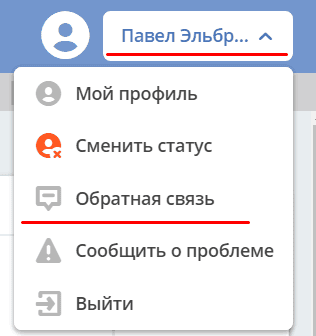
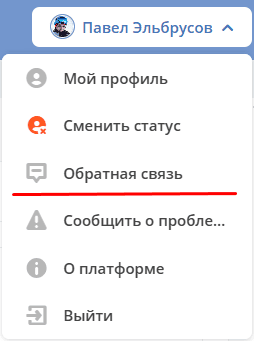
ECOSCOM-5409, ECOSENT-3487, ECOSUI-3678
https://jira.citeck.ru/browse/ECOSCOM-5409 About window
https://jira.citeck.ru/browse/ECOSENT-3487 Automatical system updatase
https://jira.citeck.ru/browse/ECOSUI-3678 Number component. Default formatter

diff --git a/docs/introduction/homepage.rst b/docs/introduction/homepage.rst
@@ -87,6 +87,7 @@
     * **Сменить статус** - меняет статус пользователя на «Отсутствую»;
     * **Обратная связь** – открывает форму для отправки отзыва по работе системы;
     * **Сообщить о проблеме** – открывает форму для отправки письма, в котором необходимо указать о найденной в системе проблеме;
+    * **О платформе** - информация о версии системы;
     * **Выйти** – выход из системы.
 
 Главное меню

diff --git a/docs/settings_kb/interface/forms/form_components/components_common.rst b/docs/settings_kb/interface/forms/form_components/components_common.rst
@@ -64,7 +64,7 @@ Number
 
 Числовое поле. Может принимать в себя как целочисленные значения, так и с плавающей точкой. Это регулируется внутри компонента.
 
-По умолчанию разряды числа разделены пробелом. Например, 1 000 000
+По умолчанию разряды числа разделены пробелом. Например, 1 000 000.
 
 `См. подробное описание Number на Form.io <https://help.form.io/userguide/forms/form-components#number>`_ 
 

diff --git a/docs/settings_kb/interface/journals/new_journal.rst b/docs/settings_kb/interface/journals/new_journal.rst
@@ -51,7 +51,7 @@
         - Флаг
       * - 4
         - **Обновлять данные журнала при смене фокуса**
-        - Данные журнала будут обновляться при смене пользователем фокуса.
+        - Данные журнала будут обновляться при смене пользователем фокуса. Например, для обновления журнала текущих задач при выполнении задачи.
         - 
       * - 5
         - **Добавить колонки**
